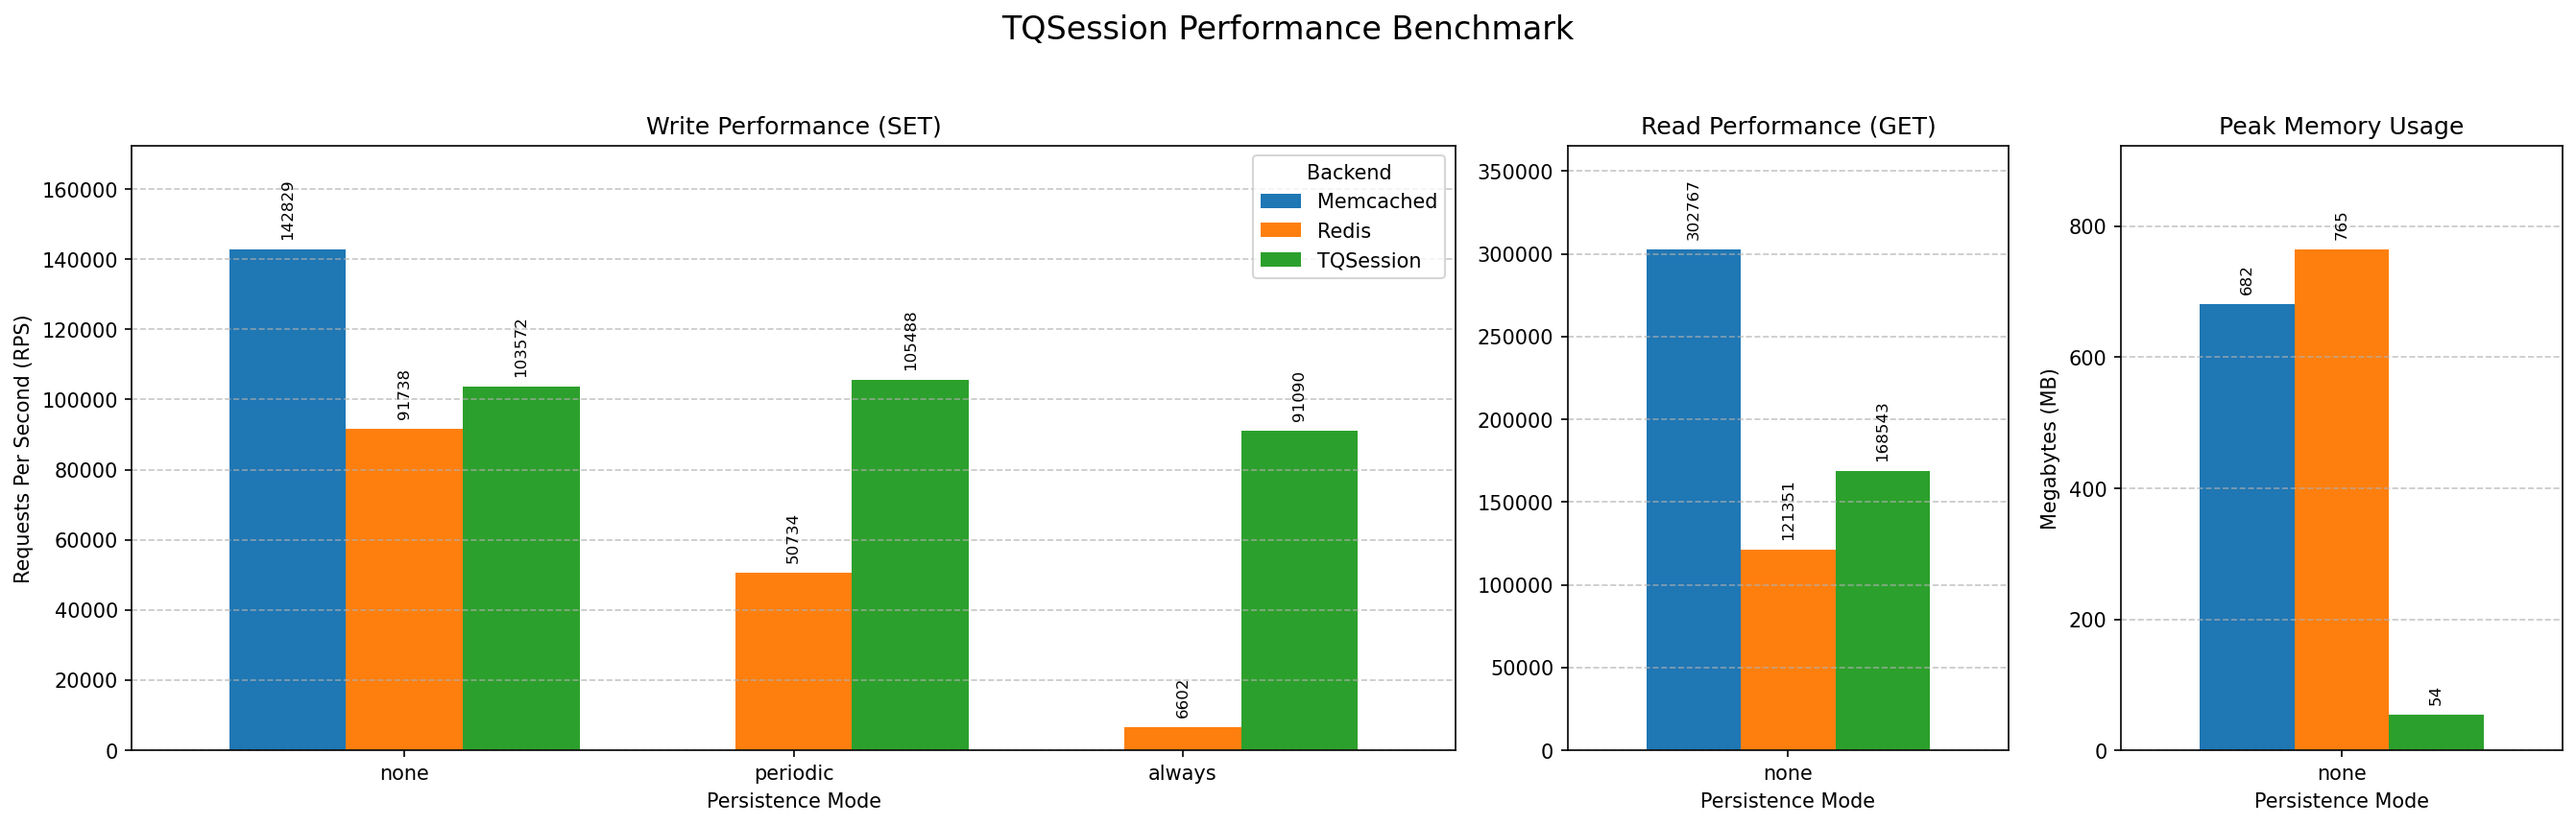
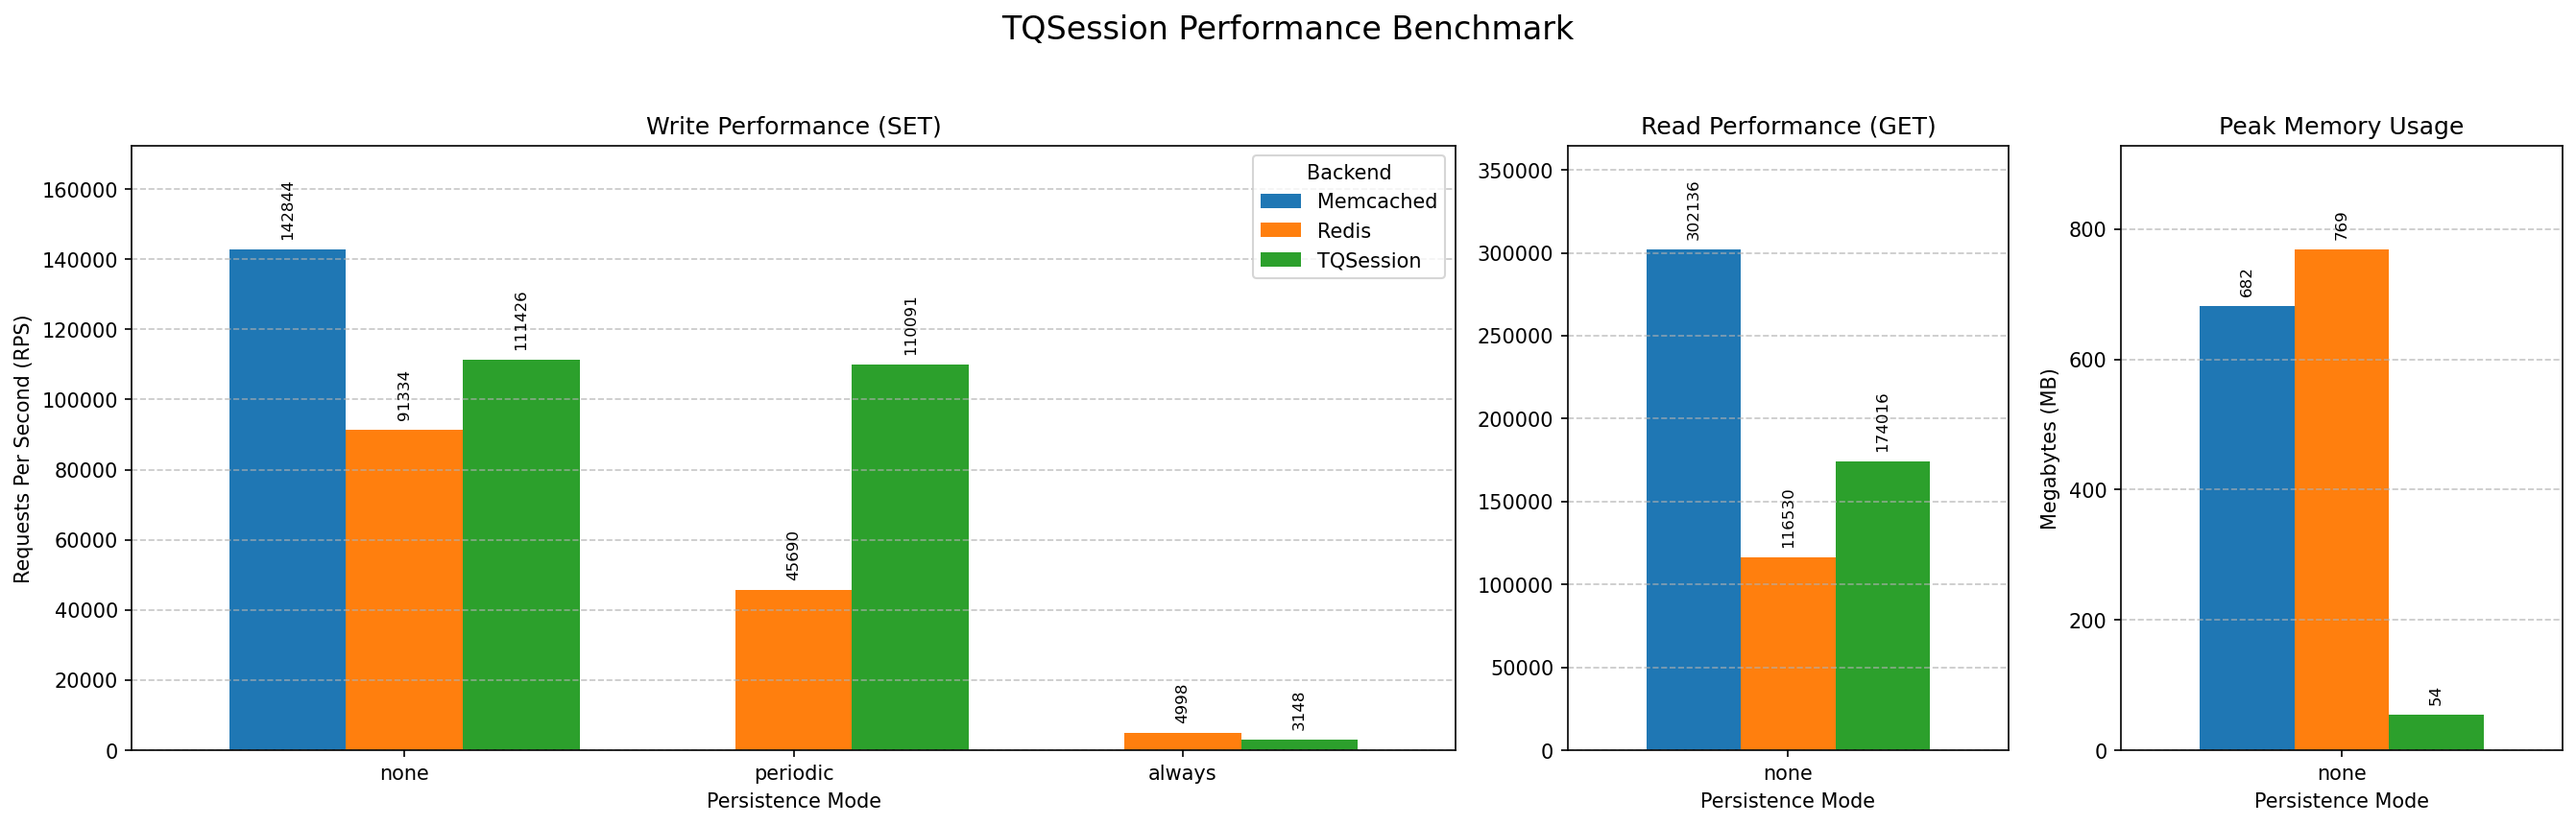
update

diff --git a/pkg/tqsession/sharded.go b/pkg/tqsession/sharded.go
@@ -49,8 +49,12 @@ func NewSharded(cfg Config, shardCount int) (*ShardedCache, error) {
 
 		shardCfg := cfg
 		shardCfg.DataDir = shardDir
-		// Disable per-shard sync workers - we'll run one at the top level
-		shardCfg.SyncStrategy = SyncNone
+		// For SyncPeriodic: disable per-shard workers, run one at top level
+		// For SyncAlways: keep it so fsync happens after every write
+		// For SyncNone: keep as-is
+		if cfg.SyncStrategy == SyncPeriodic {
+			shardCfg.SyncStrategy = SyncNone // Disable per-shard sync worker
+		}
 
 		shard, err := New(shardCfg)
 		if err != nil {
